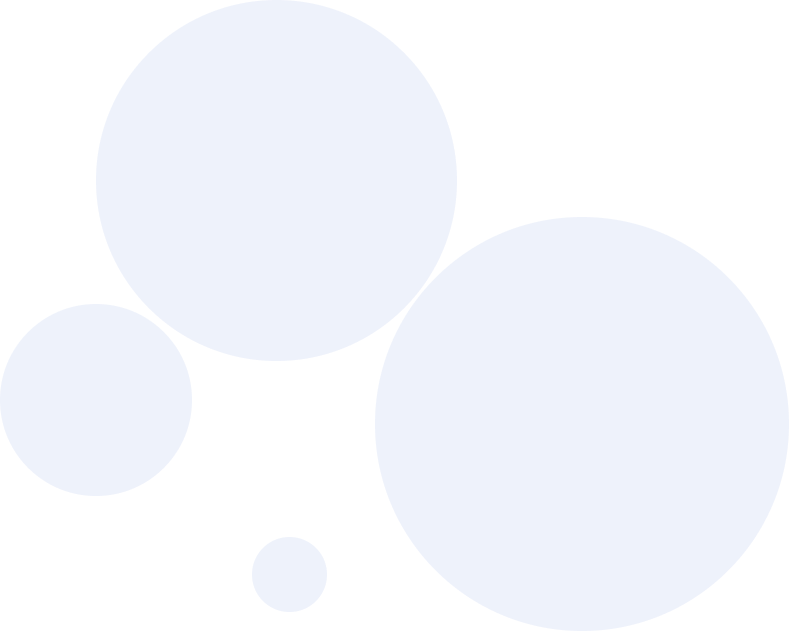
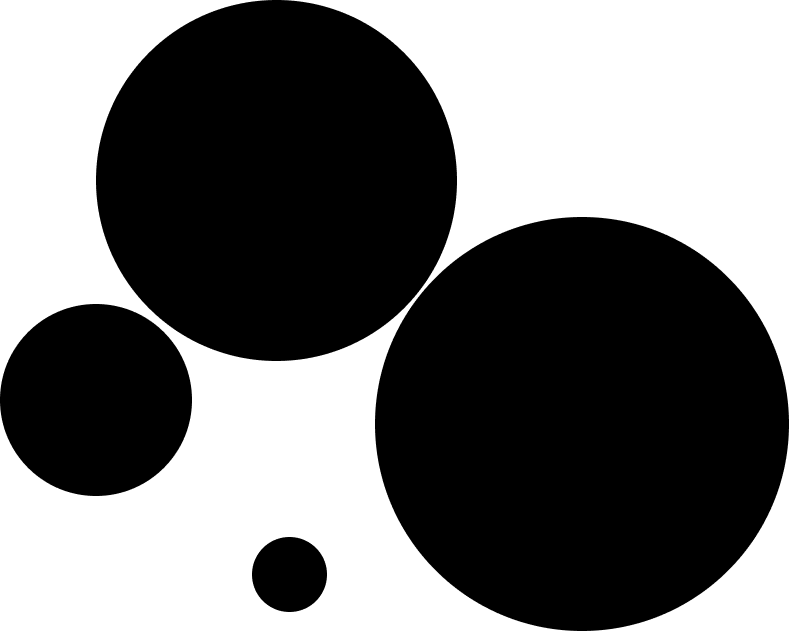
color fix

diff --git a/JetHire/JetHire/pages/index.js b/JetHire/JetHire/pages/index.js
@@ -19,7 +19,7 @@ export default function Index5() {
                                             <h1 className="heading-banner wow animate__animated animate__fadeInUp">
                                                 Procura emprego,
                                                 <br className="d-lg-block" />
-                                                contrata talentos
+                                                contrata talentos.
                                             </h1>
                                             <div className="banner-description mt-20 wow animate__animated animate__fadeInUp" data-wow-delay=".1s">
                                                 A tua próxima oportunidade está a apenas um clique. Simplificamos o processo para que te concentres no que importa: encontrar o trabalho certo.
@@ -32,7 +32,7 @@ export default function Index5() {
                                                 <div className="form-find mt-40 wow animate__animated animate__fadeIn" data-wow-delay=".2s">
                                                     <form>
                                                         <input className="form-input input-keysearch mr-10 style-2" type="text" placeholder="Palavras-chave... " />
-                                                        <button className="btn btn-default btn-find font-sm">Procurar</button>
+                                                        <button className="btn btn-default font-sm">Procurar</button>
                                                     </form>
                                                 </div>
                                             </div>

diff --git a/JetHire/JetHire/public/assets/css/style.css b/JetHire/JetHire/public/assets/css/style.css
@@ -291,13 +291,13 @@ input:focus::-moz-placeholder {
 }
 
 a {
-  color: var(--black);
+  color: var(--neutral-900);
 }
 a:hover {
-  color: #000000;
+  color: var(--neutral-900);
 }
 a *:hover {
-  color: var(--black);
+  color: var(--neutral-900);
 }
 
 li.hr span {
@@ -312,32 +312,32 @@ p {
   color: #4F5E64;
 } /*--- Common Classes---------------------*/
 ::-moz-selection {
-  background: var(--black); /* WebKit/Blink Browsers */
-  color: var(--white);
+  background: var(--neutral-700); /* WebKit/Blink Browsers */
+  color: var(--neutral-100);
 }
 ::selection {
-  background: var(--black); /* WebKit/Blink Browsers */
-  color: var(--white);
+  background: var(--neutral-700); /* WebKit/Blink Browsers */
+  color: var(--neutral-100);
 }
 
 ::-moz-selection {
-  background: var(--black); /* Gecko Browsers */
-  color: var(--white);
+  background: var(--neutral-700); /* Gecko Browsers */
+  color: var(--neutral-100);
 }
 
 ::-moz-placeholder {
-  color: var(--gray);
+  color: var(--neutral-500);
   opacity: 1;
 }
 
 ::placeholder {
-  color: var(--gray);
+  color: var(--neutral-500);
   opacity: 1;
 }
 
 :-ms-input-placeholder,
 ::-webkit-input-placeholder {
-  color: var(--gray);
+  color: var(--neutral-500);
   opacity: 1;
 }
 
@@ -975,13 +975,13 @@ h6,
   transition: 0.2s;
 }
 .btn.btn-default {
-  color: #ffffff;
-  background-color: var(--10);
+  color: var(--neutral-100);
+  background-color: var(--neutral-900);
   line-height: 26px;
   padding: 10px 25px;
 }
 .btn.btn-default:hover {
-  background-color: var(--9);
+  background-color: var(--neutral-800);
   transition: 0.2s;
 }
 

diff --git a/JetHire/JetHire/components/Layout/Header.js b/JetHire/JetHire/components/Layout/Header.js
@@ -10,7 +10,7 @@ const Header = ({handleOpen,handleRemove,openClass}) => {
                     <div className="main-header">
                         <div className="header-left">
                             <div className="header-logo">
-                            <Link legacyBehavior href="/"><a className="d-flex"><img alt="jobBox" src="assets/imgs/template/logo.svg" /></a></Link>
+                            <Link legacyBehavior href="/"><a className="d-flex"><img alt="jobBox" src="assets/imgs/template/logo.svg"/></a></Link>
                             </div>
                         </div>
                         <div className="header-nav">
